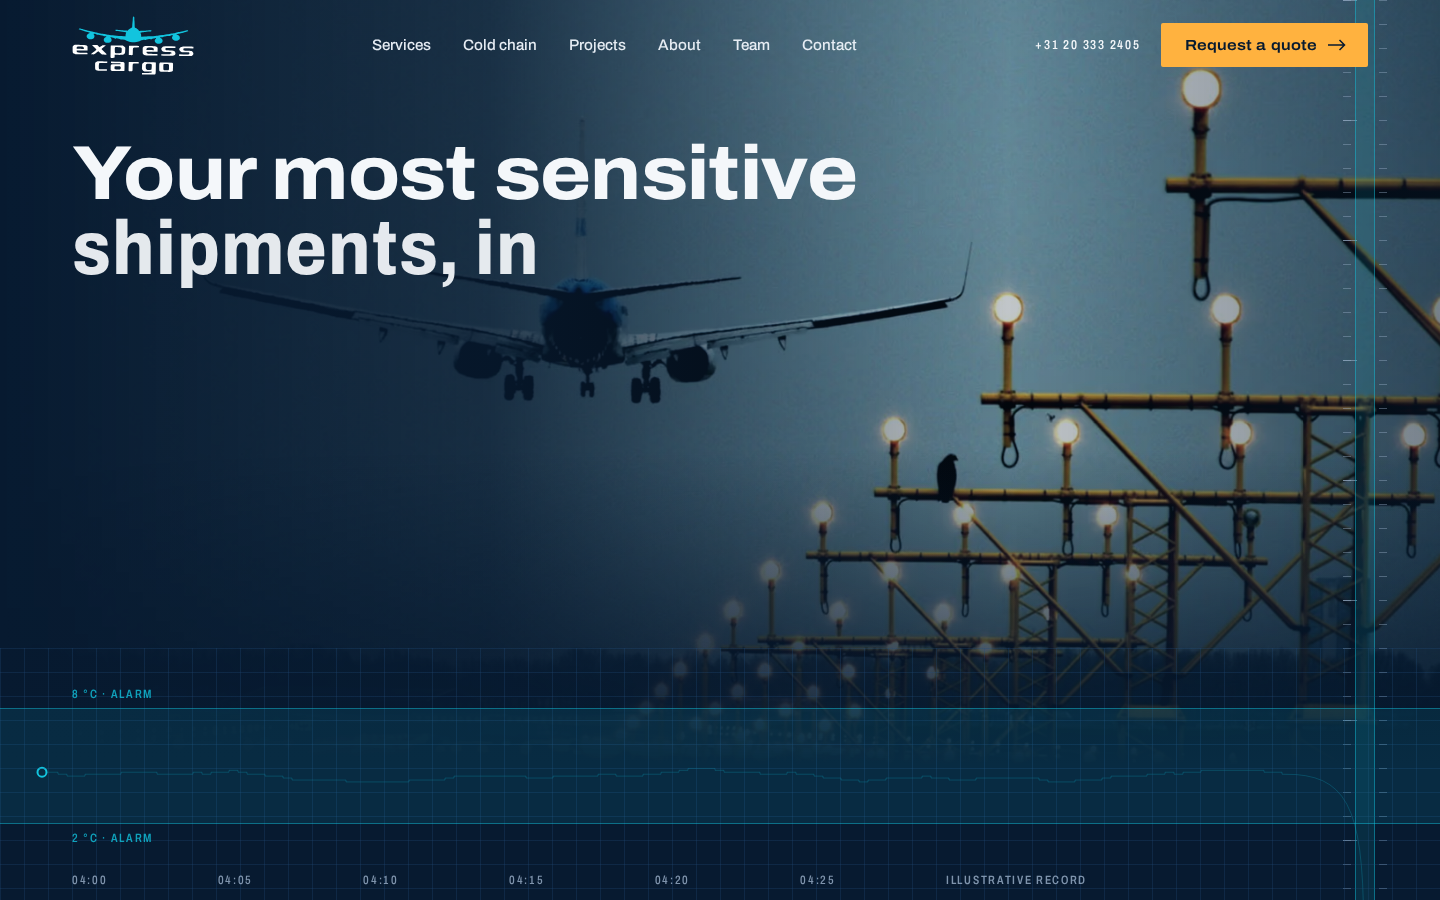
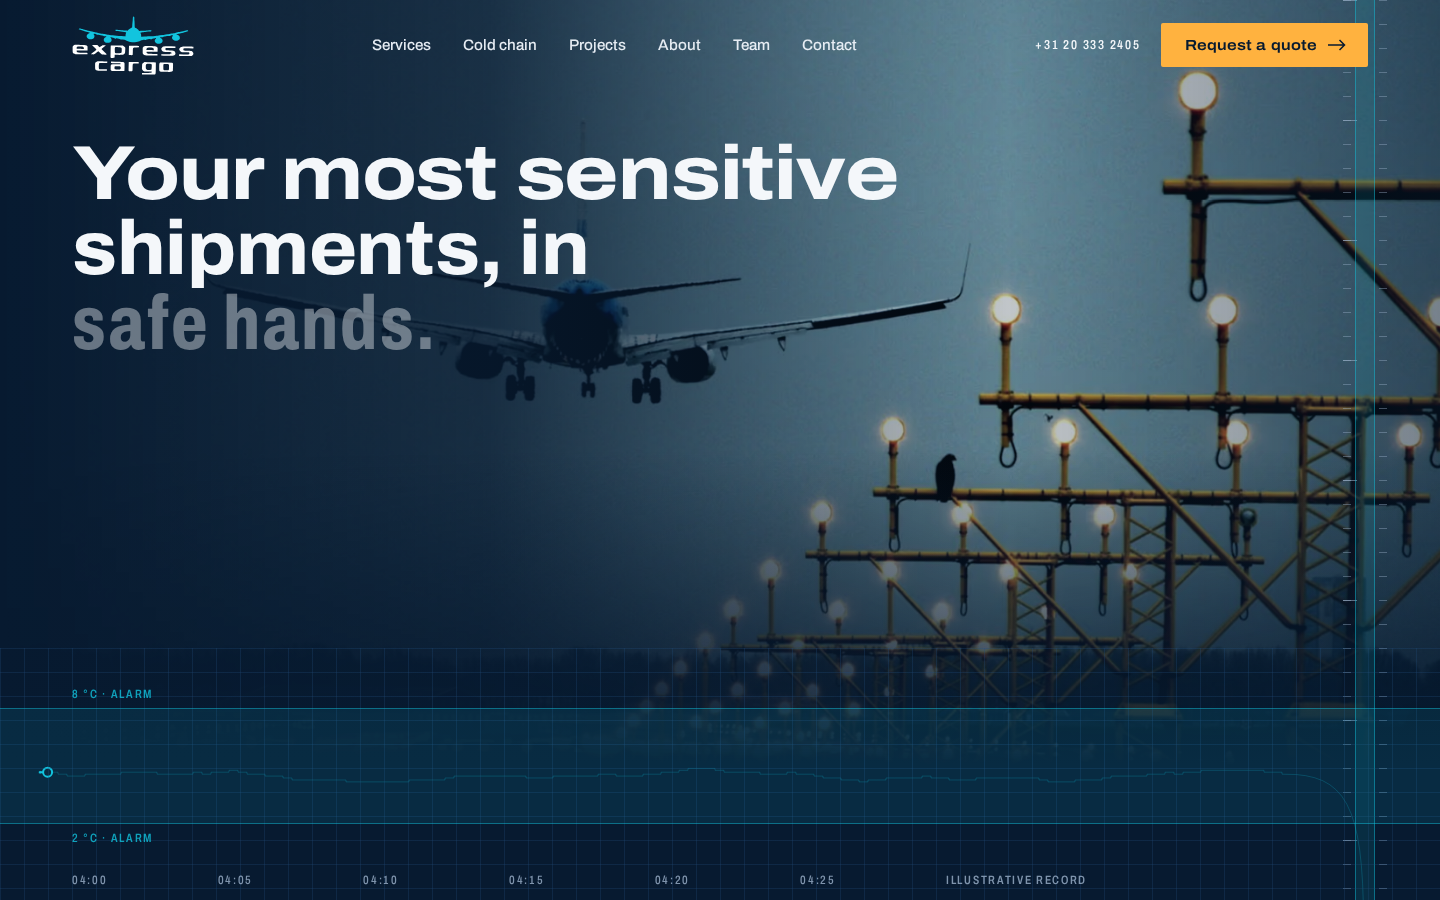
Lock headline line content during width settle; fill specialist right column
Claude-Session: https://claude.ai/code/session_014mNkdPbsW9kYkWZid9BWB5

diff --git a/index.html b/index.html
@@ -284,8 +284,9 @@
             <figure class="plate cool aspect-[4/3]" data-parallax>
               <ec-img name="lab-tubes" alt="Rack of blood sample tubes in a laboratory" sizes="(min-width: 1024px) 45vw, 100vw" class="h-full w-full" />
             </figure>
+            <p class="prose-ec mt-8">We move specimens worldwide through our partner-agent network, along with clinical drug substance, IMP, drug product and ancillary supplies. Our temperature-controlled vehicles are monitored live by TT4 data loggers, and we advise on regulation and foreign trade, with full import-export documentation.</p>
           </div>
-          <p class="prose-ec text-lg lg:col-span-10">We move specimens worldwide through our partner-agent network, along with clinical drug substance, IMP, drug product and ancillary supplies. Our temperature-controlled vehicles are monitored live by TT4 data loggers, and we advise on regulation and foreign trade, with full import-export documentation.</p>
+          
         </div>
       </section>
 

diff --git a/src/styles/main.css b/src/styles/main.css
@@ -1209,3 +1209,7 @@ body.no-rail {
     width: 10px;
   }
 }
+/* lines are split at their final width; keep their content fixed while the width settles */
+.split-line {
+  white-space: nowrap;
+}
